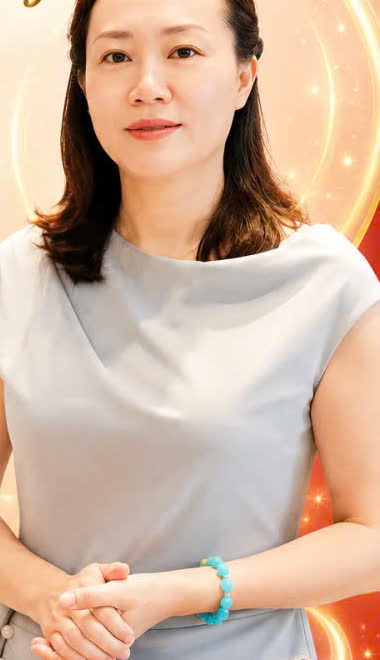
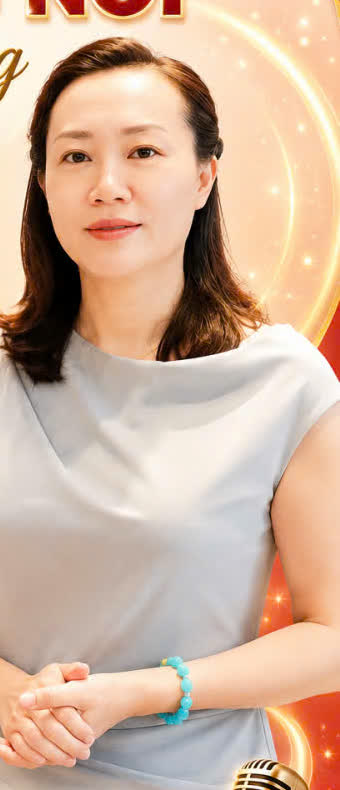
Replace portrait/workshop photos with real high-quality assets, add intro video
Swap the cropped poster-derived portrait for a clean real headshot
(no text bleed, full head and hands visible) and replace the
low-res workshop photo with a real 1:1 coaching session photo.
Add a YouTube Shorts embed after the story section, and keep the
extra branded assets (avatar, hero banner) in the image library for
future use.

diff --git a/giong-noi-truyen-cam-hung-site/index.html b/giong-noi-truyen-cam-hung-site/index.html
@@ -158,7 +158,7 @@
   <div class="max-w-4xl mx-auto">
     <div class="grid md:grid-cols-[300px_1fr] gap-10 md:gap-14 items-center">
       <div class="w-64 md:w-full mx-auto md:mx-0 rounded-2xl overflow-hidden shadow-lg border-4 border-gold-200">
-        <img src="images/portrait-story.jpg" alt="Coach Thanh Hương" class="w-full h-auto">
+        <img src="images/portrait-story.png" alt="Coach Thanh Hương" class="w-full h-auto">
       </div>
       <div class="md:border-l md:border-gold-200 md:pl-14">
         <div class="inline-block text-xs font-semibold text-brand bg-brand/10 px-3 py-1 rounded-full mb-4 uppercase tracking-wider">Câu chuyện</div>
@@ -172,6 +172,24 @@
           <li class="flex gap-2"><span class="text-brand shrink-0">✓</span>Xây dựng chương trình Truyền nghề Tư vấn Tâm lý</li>
         </ul>
       </div>
+    </div>
+  </div>
+</section>
+
+<!-- VIDEO GIỚI THIỆU -->
+<section class="py-16 px-4 bg-cream-50">
+  <div class="max-w-md mx-auto text-center">
+    <div class="inline-block text-xs font-semibold text-brand bg-brand/10 px-3 py-1 rounded-full mb-6 uppercase tracking-wider">Video giới thiệu</div>
+    <div class="rounded-2xl overflow-hidden shadow-lg border-4 border-gold-200 bg-black" style="aspect-ratio:9/16;">
+      <iframe
+        class="w-full h-full"
+        src="https://www.youtube.com/embed/3k-SmTCIm2k?feature=oembed"
+        title="Sổ tay Nghệ thuật Giọng nói Coach Thanh Hương"
+        frameborder="0"
+        referrerpolicy="strict-origin-when-cross-origin"
+        allow="accelerometer; autoplay; clipboard-write; encrypted-media; gyroscope; picture-in-picture; web-share"
+        allowfullscreen>
+      </iframe>
     </div>
   </div>
 </section>
@@ -224,12 +242,12 @@
       </div>
     </div>
 
-    <!-- Real workshop photo -->
-    <div class="max-w-md mx-auto mb-14">
+    <!-- Real coaching session photo -->
+    <div class="max-w-2xl mx-auto mb-14">
       <div class="rounded-2xl overflow-hidden shadow-lg border-2 border-gold-200">
-        <img src="images/action-mic.jpg" alt="Coach Thanh Hương giảng dạy" class="w-full h-auto">
+        <img src="images/coaching-session.png" alt="Coach Thanh Hương trong một buổi coaching 1:1" class="w-full h-auto">
       </div>
-      <p class="text-center text-xs text-ink-500 mt-2 italic">Coach Thanh Hương trong một buổi giảng dạy</p>
+      <p class="text-center text-xs text-ink-500 mt-2 italic">Coach Thanh Hương trong một buổi coaching 1:1</p>
     </div>
 
     <!-- 3 outcomes -->

diff --git a/giong-noi-truyen-cam-hung.html b/giong-noi-truyen-cam-hung.html
@@ -158,7 +158,7 @@
   <div class="max-w-4xl mx-auto">
     <div class="grid md:grid-cols-[300px_1fr] gap-10 md:gap-14 items-center">
       <div class="w-64 md:w-full mx-auto md:mx-0 rounded-2xl overflow-hidden shadow-lg border-4 border-gold-200">
-        <img src="images/portrait-story.jpg" alt="Coach Thanh Hương" class="w-full h-auto">
+        <img src="images/portrait-story.png" alt="Coach Thanh Hương" class="w-full h-auto">
       </div>
       <div class="md:border-l md:border-gold-200 md:pl-14">
         <div class="inline-block text-xs font-semibold text-brand bg-brand/10 px-3 py-1 rounded-full mb-4 uppercase tracking-wider">Câu chuyện</div>
@@ -172,6 +172,24 @@
           <li class="flex gap-2"><span class="text-brand shrink-0">✓</span>Xây dựng chương trình Truyền nghề Tư vấn Tâm lý</li>
         </ul>
       </div>
+    </div>
+  </div>
+</section>
+
+<!-- VIDEO GIỚI THIỆU -->
+<section class="py-16 px-4 bg-cream-50">
+  <div class="max-w-md mx-auto text-center">
+    <div class="inline-block text-xs font-semibold text-brand bg-brand/10 px-3 py-1 rounded-full mb-6 uppercase tracking-wider">Video giới thiệu</div>
+    <div class="rounded-2xl overflow-hidden shadow-lg border-4 border-gold-200 bg-black" style="aspect-ratio:9/16;">
+      <iframe
+        class="w-full h-full"
+        src="https://www.youtube.com/embed/3k-SmTCIm2k?feature=oembed"
+        title="Sổ tay Nghệ thuật Giọng nói Coach Thanh Hương"
+        frameborder="0"
+        referrerpolicy="strict-origin-when-cross-origin"
+        allow="accelerometer; autoplay; clipboard-write; encrypted-media; gyroscope; picture-in-picture; web-share"
+        allowfullscreen>
+      </iframe>
     </div>
   </div>
 </section>
@@ -224,12 +242,12 @@
       </div>
     </div>
 
-    <!-- Real workshop photo -->
-    <div class="max-w-md mx-auto mb-14">
+    <!-- Real coaching session photo -->
+    <div class="max-w-2xl mx-auto mb-14">
       <div class="rounded-2xl overflow-hidden shadow-lg border-2 border-gold-200">
-        <img src="images/action-mic.jpg" alt="Coach Thanh Hương giảng dạy" class="w-full h-auto">
+        <img src="images/coaching-session.png" alt="Coach Thanh Hương trong một buổi coaching 1:1" class="w-full h-auto">
       </div>
-      <p class="text-center text-xs text-ink-500 mt-2 italic">Coach Thanh Hương trong một buổi giảng dạy</p>
+      <p class="text-center text-xs text-ink-500 mt-2 italic">Coach Thanh Hương trong một buổi coaching 1:1</p>
     </div>
 
     <!-- 3 outcomes -->